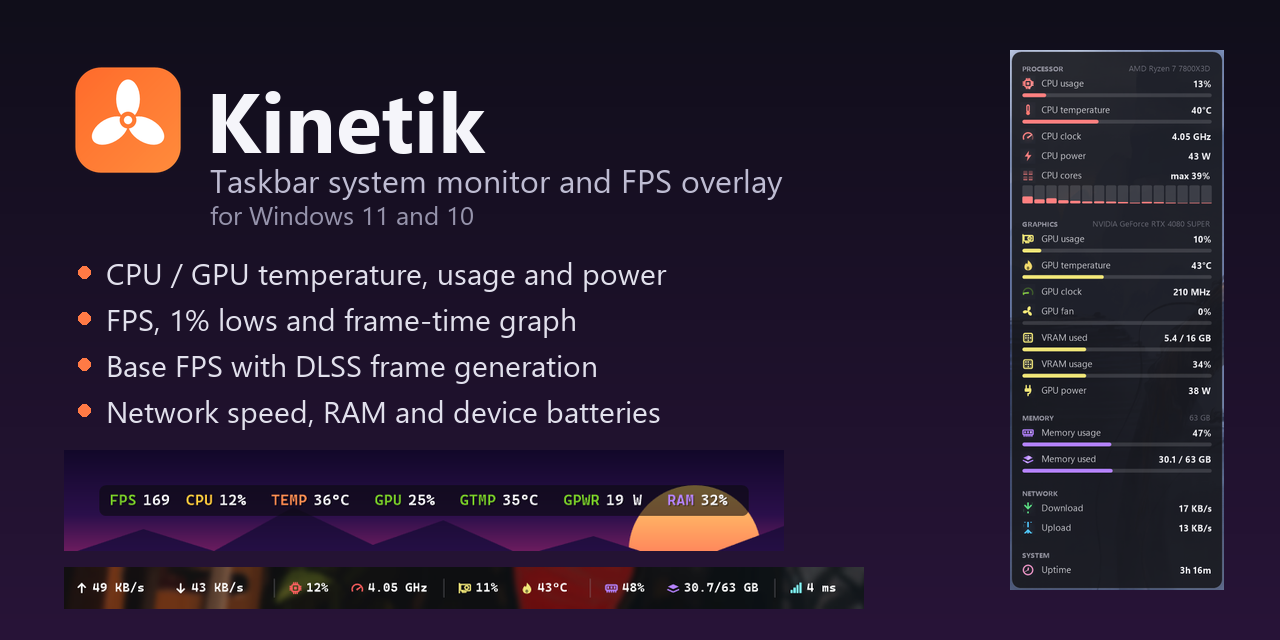
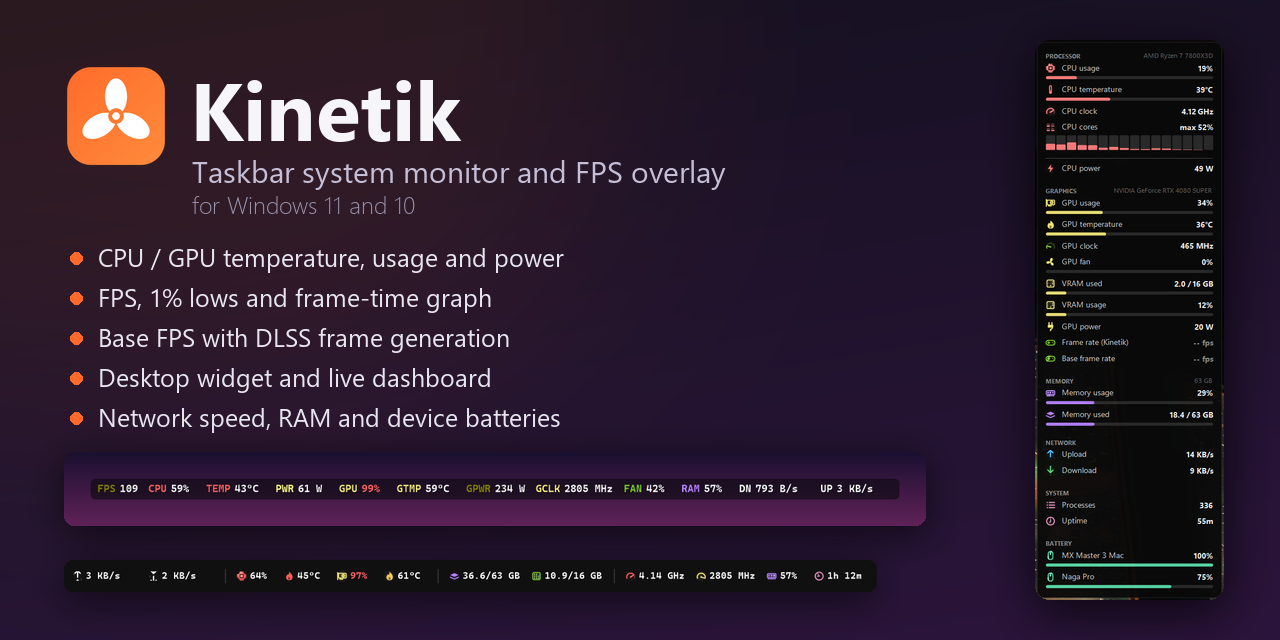
README: new hero image for 3.2, also used as the social preview
Rebuilt the 1280x640 hero from the v3.2 screenshots: the Mono desktop
widget, the game overlay and the one-line bar, with a bullet for the
desktop widget and live dashboard. It now also heads the README.

diff --git a/README.md b/README.md
@@ -1,5 +1,7 @@
 # Kinetik: taskbar system monitor, FPS counter and game overlay for Windows
 
+![Kinetik: the taskbar bar, game overlay and desktop widget](screenshots/social-preview.png)
+
 [![Latest release](https://img.shields.io/github/v/release/WastedDesigner/Kinetik?label=download)](../../releases/latest)
 [![Downloads](https://img.shields.io/github/downloads/WastedDesigner/Kinetik/total)](../../releases)
 [![License: GPL v3](https://img.shields.io/github/license/WastedDesigner/Kinetik)](LICENSE)
